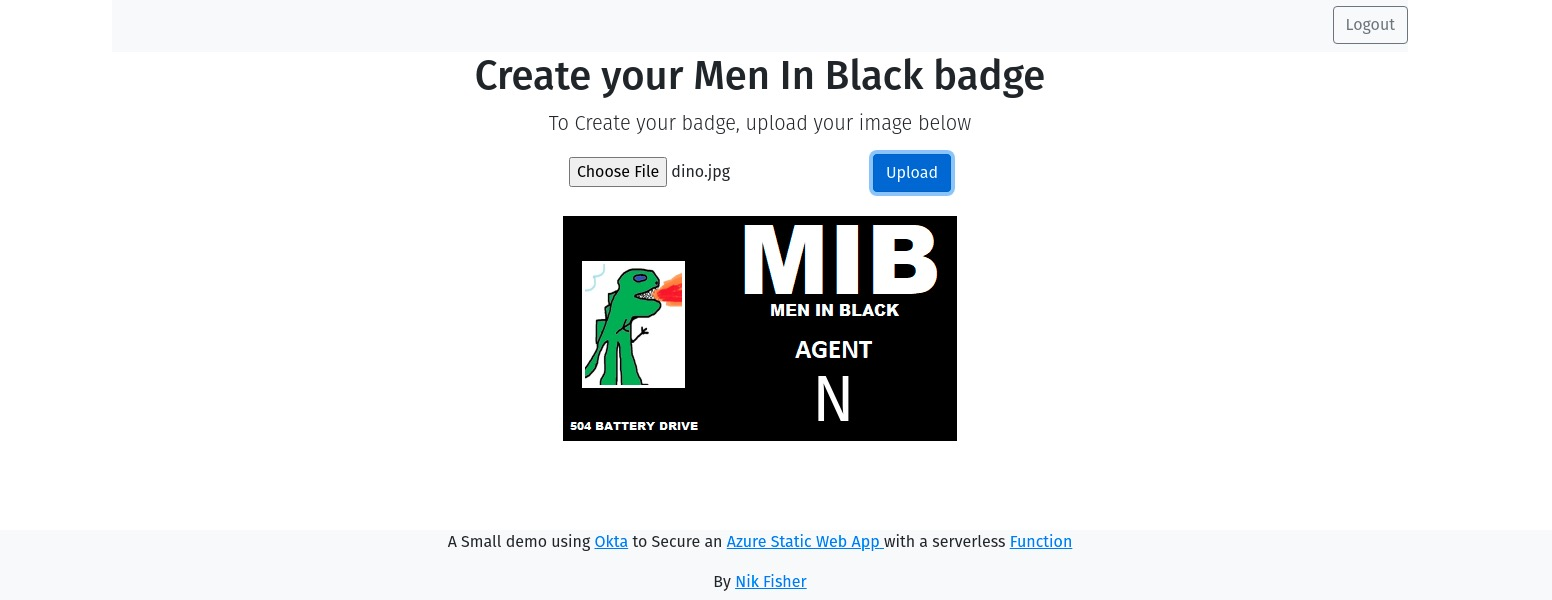
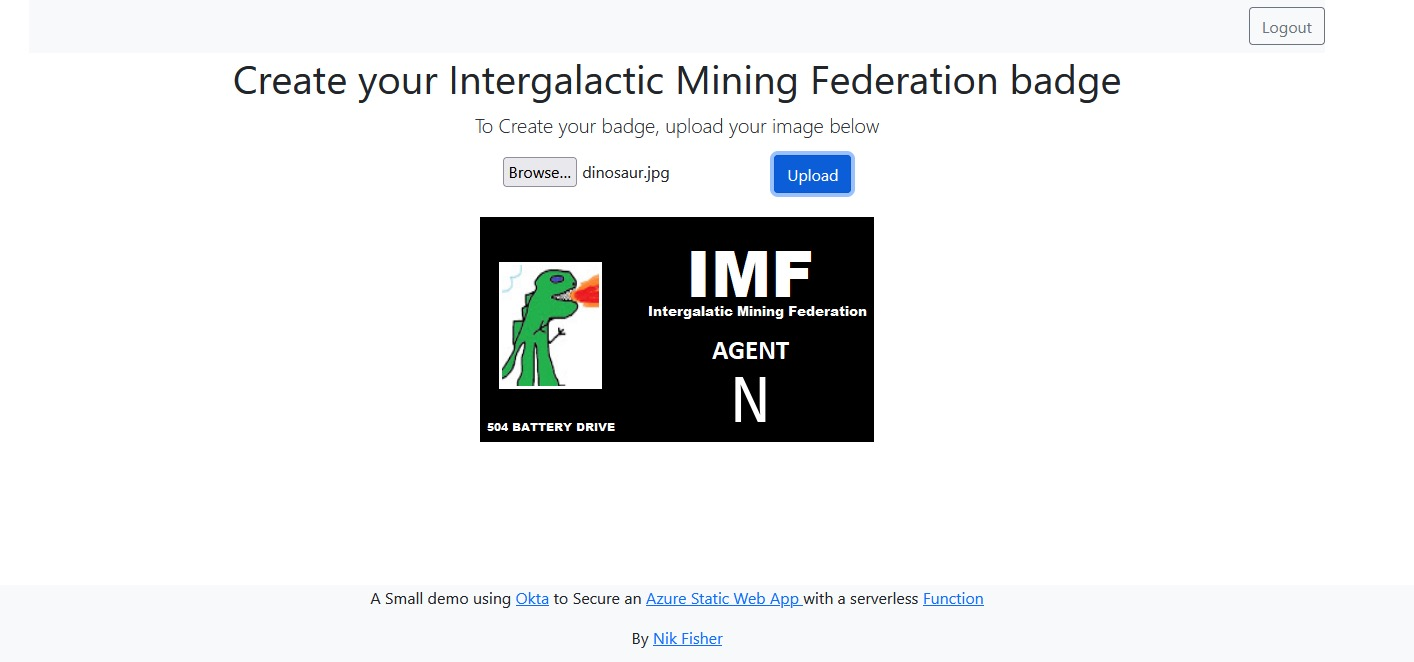
update image

diff --git a/_source/_posts/2022-04-13-react-azure-functions.md b/_source/_posts/2022-04-13-react-azure-functions.md
@@ -184,7 +184,7 @@ function Home() {
           </ul>
         </nav>
 
-        <h1 className="cover-heading">Create your Men In Black badge</h1>
+        <h1 className="cover-heading">Create your Intergalactic Mining Federation badge</h1>
 
         {!authState?.isAuthenticated && (
           <div>
@@ -204,7 +204,7 @@ function Home() {
               Upload
             </button>
             <br />
-            {display && <img className="pt-4" alt="your MIB badge" src={display}></img>}
+            {display && <img className="pt-4" alt="your IMF badge" src={display}></img>}
           </div>
         )}
 
@@ -294,7 +294,7 @@ const letterStart = [250, 205];
 
 const multipart = require("parse-multipart-data");
 
-badgeTemplateUrl = "https://i.imgur.com/HjluofW.png";
+badgeTemplateUrl = "https://i.imgur.com/50dOBYK.png";
 
 const OktaJwtVerifier = require("@okta/jwt-verifier");
 
